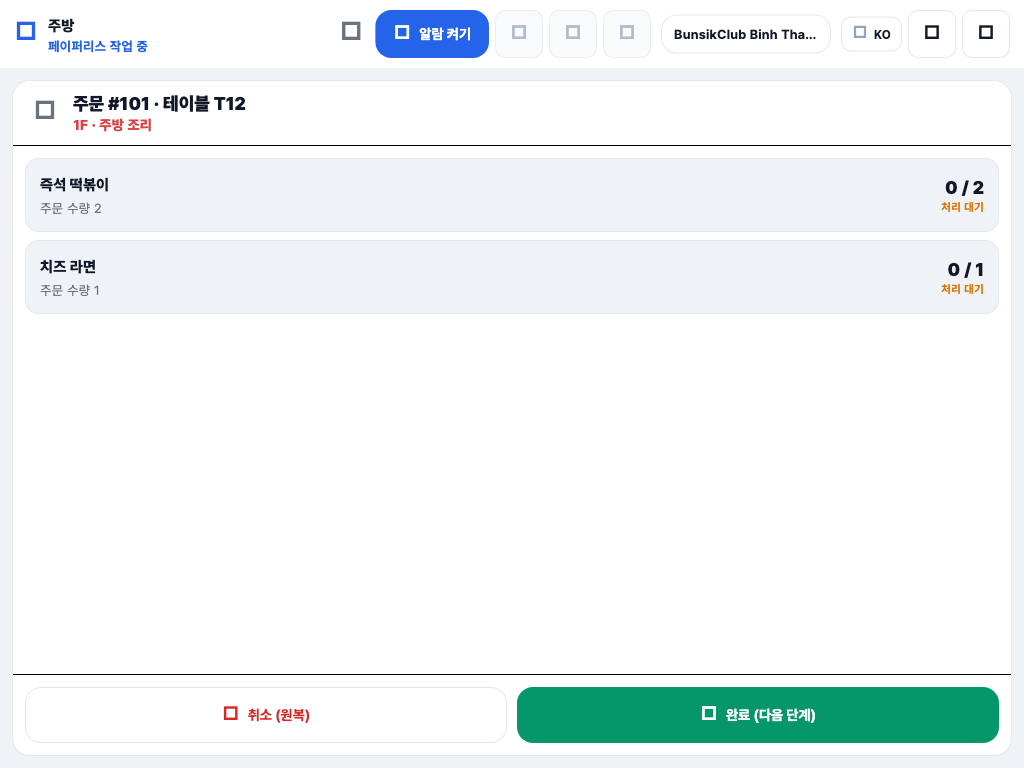
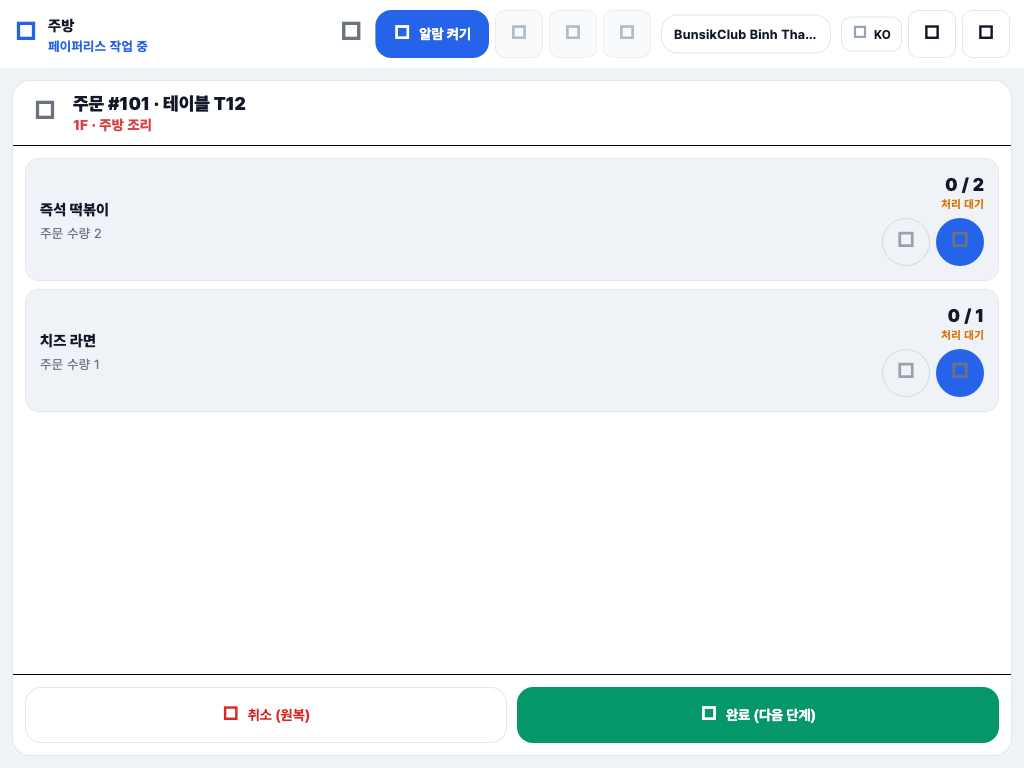
fix: allow per-item paperless undo

Changed region(s): [[0.875, 0.2188, 0.9688, 0.5312], [0.0312, 0.2188, 0.125, 0.4062], [0.0312, 0.4375, 0.0938, 0.5]]

diff --git a/lib/features/emergency_fulfillment/emergency_fulfillment_screen.dart b/lib/features/emergency_fulfillment/emergency_fulfillment_screen.dart
@@ -239,6 +239,7 @@ class _EmergencyFulfillmentScreenState
         onBack: () => setState(() => _selectedOrderId = null),
         onComplete: () => _completeOrder(selected),
         onItemAction: (item) => _completeItem(item, stationType),
+        onItemRevert: (item) => _revertItem(item, stationType),
         onRevert: selected.lastActionId == null
             ? null
             : () => _revertOrder(selected),
@@ -361,6 +362,44 @@ class _EmergencyFulfillmentScreenState
         _page = 0;
       }
     });
+  }
+
+  Future<void> _revertItem(
+    EmergencyFulfillmentItem item,
+    String stationType,
+  ) async {
+    if (_actionBusy || !item.isRevertibleAt(stationType)) return;
+    setState(() => _actionBusy = true);
+    final notifier = ref.read(emergencyFulfillmentProvider.notifier);
+    try {
+      switch (stationType) {
+        case 'kitchen':
+          await notifier.recordProgress(
+            itemId: item.id,
+            stage: 'kitchen_done',
+            delta: -1,
+          );
+        case 'tray':
+          await notifier.recordProgress(
+            itemId: item.id,
+            stage: 'tray_dispatched',
+            delta: -1,
+          );
+          await notifier.recordProgress(
+            itemId: item.id,
+            stage: 'tray_received',
+            delta: -1,
+          );
+        case 'floor':
+          await notifier.recordProgress(
+            itemId: item.id,
+            stage: 'floor_served',
+            delta: -1,
+          );
+      }
+    } finally {
+      if (mounted) setState(() => _actionBusy = false);
+    }
   }
 }
 
@@ -840,6 +879,7 @@ class _EmergencyOrderDetails extends StatelessWidget {
     required this.onBack,
     required this.onComplete,
     required this.onItemAction,
+    required this.onItemRevert,
     required this.onRevert,
   });
 
@@ -852,6 +892,7 @@ class _EmergencyOrderDetails extends StatelessWidget {
   final VoidCallback onBack;
   final VoidCallback onComplete;
   final ValueChanged<EmergencyFulfillmentItem> onItemAction;
+  final ValueChanged<EmergencyFulfillmentItem> onItemRevert;
   final VoidCallback? onRevert;
 
   @override
@@ -943,6 +984,7 @@ class _EmergencyOrderDetails extends StatelessWidget {
                         copy: copy,
                         busy: busy || pending,
                         onTap: () => onItemAction(order.items[index]),
+                        onRevert: () => onItemRevert(order.items[index]),
                       ),
                     );
                   }
@@ -954,7 +996,7 @@ class _EmergencyOrderDetails extends StatelessWidget {
                       crossAxisCount: columns,
                       crossAxisSpacing: 8,
                       mainAxisSpacing: 8,
-                      mainAxisExtent: 150,
+                      mainAxisExtent: 188,
                     ),
                     itemBuilder: (context, index) => _EmergencyMenuRow(
                       item: order.items[index],
@@ -962,6 +1004,7 @@ class _EmergencyOrderDetails extends StatelessWidget {
                       copy: copy,
                       busy: busy || pending,
                       onTap: () => onItemAction(order.items[index]),
+                      onRevert: () => onItemRevert(order.items[index]),
                     ),
                   );
                 },
@@ -990,6 +1033,7 @@ class _EmergencyMenuRow extends StatelessWidget {
     required this.copy,
     required this.busy,
     required this.onTap,
+    required this.onRevert,
   });
 
   final EmergencyFulfillmentItem item;
@@ -997,6 +1041,7 @@ class _EmergencyMenuRow extends StatelessWidget {
   final _EmergencyCopy copy;
   final bool busy;
   final VoidCallback onTap;
+  final VoidCallback onRevert;
 
   @override
   Widget build(BuildContext context) {
@@ -1016,9 +1061,10 @@ class _EmergencyMenuRow extends StatelessWidget {
         (stationType == 'kitchen' || stationType == 'tray');
     final canAdvance =
         !busy && !disabledAtStation && limit > 0 && value < limit;
+    final canRevert = !busy && item.isRevertibleAt(stationType);
     return Semantics(
       button: true,
-      enabled: canAdvance,
+      enabled: canAdvance || canRevert,
       label:
           '${item.localizedName(languageCode)}, $value / $limit, '
           '${disabledAtStation
@@ -1090,6 +1136,25 @@ class _EmergencyMenuRow extends StatelessWidget {
                 fontWeight: FontWeight.w700,
               ),
             );
+            final itemActions = Row(
+              mainAxisSize: MainAxisSize.min,
+              children: [
+                IconButton.outlined(
+                  key: ValueKey('emergency_menu_item_cancel_${item.id}'),
+                  tooltip: copy.cancelOne,
+                  onPressed: canRevert ? onRevert : null,
+                  color: PosColors.danger,
+                  icon: const Icon(Icons.undo_rounded, size: 20),
+                ),
+                const SizedBox(width: 6),
+                IconButton.filled(
+                  key: ValueKey('emergency_menu_item_complete_${item.id}'),
+                  tooltip: copy.completeOne,
+                  onPressed: canAdvance ? onTap : null,
+                  icon: const Icon(Icons.check_rounded, size: 20),
+                ),
+              ],
+            );
             return Container(
               padding: const EdgeInsets.all(14),
               decoration: BoxDecoration(
@@ -1115,6 +1180,11 @@ class _EmergencyMenuRow extends StatelessWidget {
                             progressValue,
                           ],
                         ),
+                        const SizedBox(height: 6),
+                        Align(
+                          alignment: Alignment.centerRight,
+                          child: itemActions,
+                        ),
                       ],
                     )
                   : Row(
@@ -1124,7 +1194,12 @@ class _EmergencyMenuRow extends StatelessWidget {
                         Column(
                           crossAxisAlignment: CrossAxisAlignment.end,
                           mainAxisSize: MainAxisSize.min,
-                          children: [progressValue, progressLabel],
+                          children: [
+                            progressValue,
+                            progressLabel,
+                            const SizedBox(height: 6),
+                            itemActions,
+                          ],
                         ),
                       ],
                     ),
@@ -1391,6 +1466,8 @@ class _EmergencyCopy {
   String get backToBoard => _pick('주문 보드로', 'Về bảng đơn', 'Back to board');
   String get cancelAndRevert =>
       _pick('취소 (원복)', 'Hủy (hoàn tác)', 'Cancel (undo)');
+  String get cancelOne => _pick('1개 취소', 'Hủy 1 món', 'Undo one');
+  String get completeOne => _pick('1개 완료', 'Hoàn tất 1 món', 'Complete one');
   String get completeAndNext =>
       _pick('완료 (다음 단계)', 'Hoàn tất (bước tiếp theo)', 'Complete (next stage)');
 

diff --git a/test/emergency_fulfillment_responsive_test.dart b/test/emergency_fulfillment_responsive_test.dart
@@ -260,6 +260,46 @@ void main() {
     expect(tester.takeException(), isNull);
   });
 
+  for (final scenario
+      in <({String stationType, List<(String, String, int)> expected})>[
+        (stationType: 'kitchen', expected: [('item-1', 'kitchen_done', -1)]),
+        (
+          stationType: 'tray',
+          expected: [
+            ('item-1', 'tray_dispatched', -1),
+            ('item-1', 'tray_received', -1),
+          ],
+        ),
+        (stationType: 'floor', expected: [('item-1', 'floor_served', -1)]),
+      ]) {
+    testWidgets('${scenario.stationType} can cancel one completed menu item', (
+      tester,
+    ) async {
+      final fixture = _FixtureEmergencyNotifier(
+        _revertibleState(scenario.stationType),
+      );
+      await _pumpEmergency(
+        tester,
+        fixture: fixture,
+        size: const Size(1024, 768),
+        locale: const Locale('ko'),
+        expectedStationType: scenario.stationType,
+      );
+
+      await tester.tap(find.byKey(const Key('emergency_order_order-1')));
+      await tester.pump();
+      final cancelButton = find.byKey(
+        const Key('emergency_menu_item_cancel_item-1'),
+      );
+      expect(cancelButton, findsOne);
+      await tester.tap(cancelButton);
+      await tester.pumpAndSettle();
+
+      expect(fixture.recordedProgress, scenario.expected);
+      expect(tester.takeException(), isNull);
+    });
+  }
+
   testWidgets('ninth tablet order is placed on the next eight-slot page', (
     tester,
   ) async {
@@ -517,6 +557,25 @@ EmergencyFulfillmentState _completedState(String stationType) {
         lastActionAt: DateTime.utc(2026, 8, 11, 10),
         items: [item.withStage('floor_served', item.trayDispatchedQuantity)],
       ),
+    ],
+  );
+}
+
+EmergencyFulfillmentState _revertibleState(String stationType) {
+  final active = _activeState(stationType);
+  final order = active.orders.single;
+  final item = order.items.single;
+  final revertibleItem = switch (stationType) {
+    'kitchen' => item.withStage('kitchen_done', 1),
+    'tray' =>
+      item.withStage('tray_received', 1).withStage('tray_dispatched', 1),
+    'floor' =>
+      item.withStage('tray_dispatched', 2).withStage('floor_served', 1),
+    _ => item,
+  };
+  return active.copyWith(
+    orders: [
+      order.copyWith(items: [revertibleItem]),
     ],
   );
 }

diff --git a/lib/features/emergency_fulfillment/emergency_fulfillment_provider.dart b/lib/features/emergency_fulfillment/emergency_fulfillment_provider.dart
@@ -57,6 +57,16 @@ class EmergencyFulfillmentItem {
     _ => false,
   };
 
+  bool isRevertibleAt(String stationType) => switch (stationType) {
+    'kitchen' => !isFloorDirect && kitchenDoneQuantity > trayReceivedQuantity,
+    'tray' =>
+      !isFloorDirect &&
+          trayDispatchedQuantity > floorServedQuantity &&
+          trayReceivedQuantity > 0,
+    'floor' => floorServedQuantity > 0,
+    _ => false,
+  };
+
   String localizedName(String languageCode) => switch (languageCode) {
     'vi' => nameVi.trim().isEmpty ? 'Món' : nameVi,
     'en' => nameEn.trim().isEmpty ? 'Item' : nameEn,
@@ -408,6 +418,10 @@ class EmergencyFulfillmentNotifier
       await _sendProgress(payload);
       await load(showLoading: false);
     } catch (error) {
+      if (error is PostgrestException) {
+        state = previous.copyWith(error: error.message);
+        return;
+      }
       try {
         await EmergencyWebBridge.putOutbox(eventId, jsonEncode(payload));
         state = state.copyWith(
